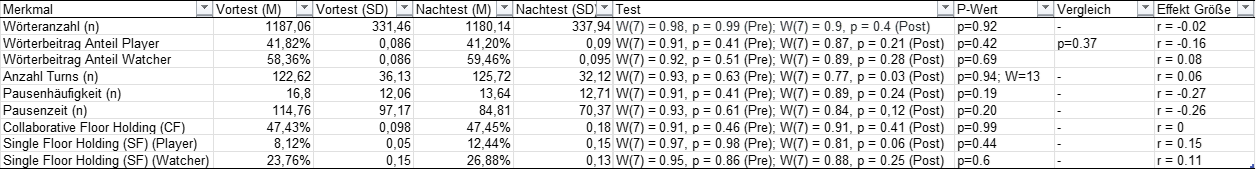
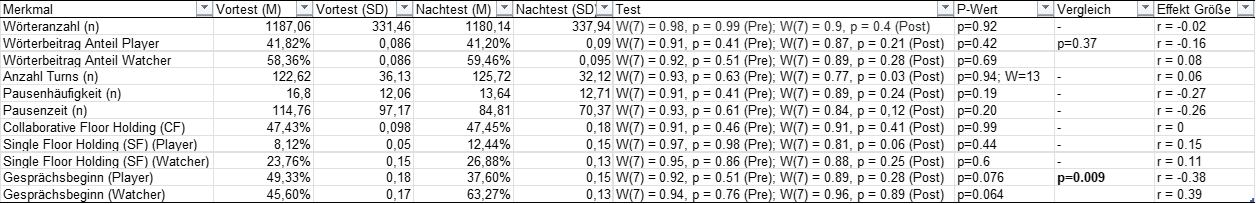
Updates from Overleaf

diff --git a/content/chapters/study.tex b/content/chapters/study.tex
@@ -36,7 +36,7 @@ Das Verhalten von Personen zueinander kann von vielen verschiedenen Faktoren abh
 Zusätzlich wurde ein eigenständiger Fragebogen erstellt, durch welchen die Meinung der Probanden zum Thema Spielen mit Fremden eingeholt werden soll. Dieser befindet sich in Anhang \ref{}. Für die Erfassung der demografischen Daten wurde ebenfalls ein speziell für das Thema dieser Arbeit entworfener Fragebogen erstellt und verwendet. Außerdem mussten sich die Probanden einem der vier Spielertypen von \cite{bartle_hearts_1996} zuordnen. Sie sind die Grundlage der vorgeführten Forschung der Spielertypen und decken die wichtigsten Aspekte des Spiels ab. Außerdem ist das Nutzen einer anderen Taxonomie in Bezug auf die genauerer Unterteilung der Spielerrollen nicht zielführend, da bei einer kleinen Probandenmenge die Anzahl der einzelnen Spielerrollen gering sein wird. Um aus den Spielerrollen Hinweise über den Forschungsschwerpunkt erzielen zu können, ist eine wiederholende Anzahl an Spielertypen hilfreich.
 
 % hier jetzt zur auiswertung der kommunikationsaufnahmen die ansätze aufschreiben wies geplant ist.
-Außerdem wurde die gesamte Versuchsdurchführung aufgenommen. Sie werden dazu genutzt um quantitative Ergebnisse in der Zusammenarbeit der Probanden zu erzeugen. Dies geschieht auf Basis der Arbeiten von \cite{baykal_collaboration_2023}, \cite{nasir_cooperative_2013} und \cite{nasir_effect_2015}. In \cite{baykal_collaboration_2023} werden die gesprochenen Dialoge anhand der in der Arbeit entworfenen Taxonomie aufbereitet, um daraus einen quantitativen Quotienten oder ähnliches zu generieren. \cite{nasir_cooperative_2013} und \cite{nasir_effect_2015} beschäftigten sich mit der Quantisierung der Kontrolle des Kommunikationsflusses.
+Außerdem wurde die gesamte Versuchsdurchführung aufgenommen. Sie werden dazu genutzt um quantitative Ergebnisse in der Zusammenarbeit der Probanden zu erzeugen. Dies geschieht auf Basis der Arbeiten von \cite{nasir_cooperative_2013} und \cite{nasir_effect_2015}. Die Arbeiten beschäftigten sich mit der Quantisierung der Kontrolle des Kommunikationsflusses. Dieses Vorgehen wurde für diese Nutzerstudie gewählt, da in der Kommunikation zwischen Individuen oft ein Ungleichgewicht im Beitrag besteht oder es zu unangenehmen Gesprächspausen kommt. Um auf diese Aspekte einzugehen wurde die Methodik von Nasir gewählt.
 
 Eine Mischung aus beiden Ansätzen könnte Aufschluss darüber geben, wie sehr die Kommunikation in der Quantität aber auch in der Qualität verbessert hat.
 
@@ -259,15 +259,71 @@ Des weiteren wurden die Gesprächsblöcke zeitlich erfasst, wann diese im aufgez
 
 Zum Schluss wurden noch die gesagten Wörter der einzelnen Teilnehmer im ganzen Test gezählt und diese in Relation zur Gesamtmenge der gesagten Wörter gesetzt um den Gesprächsanteil dieses Probanden im Test ermitteln zu können.
 
+Zusätzlich zu den Erhebungen von Nasir, wurde erfasst, welcher Teilnehmer wie oft die verschiedenen Gesprächsblöcke initiierte. Mit diesem Parameter soll die Entwicklung der Gesprächsinitiierung der Probanden bewertet werden.
+
+Die jeweiligen Stichproben wurden mithilfe des Shapiro-Wilk-Test auf Normalverteilung geprüft. Anschließend wurden Veränderungen zwischen Vor- und Nachtest bei normalverteilten Stichproben mittels t-Test für abhängige Stichproben auf Signifikanz untersucht. Für nicht normalverteilte Stichproben kam der Wilcoxon-Test zum Einsatz. Zum Vergleich zweier unabhängiger Merkmale wurde der Welch-Test verwendet.
+
 \begin{figure}[ht]
 \centering
 \includegraphics[width=1\linewidth]{content/pictures/quantitative_communication_results.png}
 \caption{Ergebnisse des quantitativen Kommunikationsverhaltens aller Gruppen im Vergleich Vortest/Nachtest}
+\caption*{\footnotesize Das Kürzel (n) bezeichnet normalisierte Werte auf 10 Minuten Gesprächsdauer.}
 \label{fig:communication-results}
 \end{figure}
 
 Abbildung \ref{fig:communication-results} zeigt die Ergebnisse der quantitativen Untersuchung der einzelnen Probandentests. Abweichend von Nasir, der eine testweise Auswertung vornimmt, wurde hier pro Merkmal der durchschnittliche Wert aus allen sieben Tests für den Vor- und Nachtest verwendet.
 
+Die einzelnen Gruppen erhielten für das kooperative Lösen der Labyrinth-Aufgabe 10 Minuten Zeit. Jedoch waren einige Gruppen früher fertig, manche wiederum wurden gar nicht fertig (M = 08:05 Minuten; SD = 02:27 Minuten Bearbeitungszeit im Vortest (M = 06:56 Minuten; SD = 03:15 Minuten Bearbeitungszeit im Nachtest). Aus diesem Grund wurden die in Abbildung \ref{fig:communication-results} betreffenden Merkmale normalisiert.
+
+Die durchschnittlich gesprochene Wörteranzahl sinkt in der Entwicklung vom Vor- zum Nachtest leicht. Dieses negative Veränderung ist jedoch nicht signifikant und besitzt auch nur eine sehr kleine negative Korrelation. Außerdem stieg die bereits im Vortest hohe Standardabweichung ein Stück weiter an, wodurch eine größere Streuung der der Daten aus den Einzelgruppen sichtbar wird. 
+
+Die Wörterbeiträge der Probanden aus den jeweiligen Gruppen des Players und Watchers wurden jeweils in ihren Tests im Verhältnis zu den gesamt gesprochenen Wörtern betrachtet. Der Mittelwert der Wortbeteiligungen der Player sank im Nachtest leicht, wohingegen die Wortbeteiligungen der Watcher leicht anstiegen. Beide Änderungen sind nicht Signifikant und besitzen auch nur eine geringe Korrelation. Die Anzahl der gemessenen \say{Turns} steigt jedoch leicht um ein nicht signifikantes Maß an.
+
+Die Anzahl und die Länge der Pausen innerhalb des Gesprächsprotokolls reduzierten sich im Nachtest. In diesem Testszenario ist diese Veränderung zwar nicht signifikant, allerdings kann die mittlere negative Korrelation darauf hinweisen, dass in einem längeren Szenario Pausenzeiten signifikant reduziert werden könnten. Eine Reduktion der Anzahl und der Länge der Pausen kann zu einem positiven Kommunikationsverhalten führen.
+
+Eine Analyse des Floor Holding Verhaltens der jeweiligen Probanden-Paare zeigt, dass das Kollaborative Verhalten im Mittelwert minimal ansteigt, jedoch in den \ac{SF}s der jeweiligen Teilnehmer im Vergleich stärker ansteigt. Alle drei Änderungen haben keine signifikante Verbesserung, auch eine niedrige Korrelation weißt nicht darauf hin, dass mit einem längeren Szenario und einer größeren Stichprobe am Wachstum eine Verbesserung messbar ist. 
+
+Die Auswertung der Gesprächsstarts zeigte, dass die Probanden, die die Player Anwendung gespielt haben, im Nachtest seltener die Initiative ergriffen als noch im Vortest. Bei den Probanden der Watcher Anwendung ist es umgekehrt. Sie zeigten im Nachtest eine höhere Initiative und begannen öfters mit den Gesprächssequenzen. Beide Änderungen sind zwar nicht signifikant, besitzen aber beide eine mittlere Korrelation. Beim Vergleich der beiden Untergruppen konnte ein signifikanter Unterschied festgestellt werden. Bei einer größeren Stichprobe könnten die Entwicklungen der Initiativen signifikant werden.
+
+In der gemeinsamen Gesprächsführung konnten sich die Probanden nicht verbessern, allerdings konnten sie häufiger von sich aus den Gesprächsfluss dominieren, wodurch ihr Selbstbewusstsein etwas zu sagen gestärkt werden konnte. Allerdings konnten in dieser Bewertungsform keine signifikanten Unterschiede festgestellt werden.
+
+
+\subsection{Vorstellung der Ergebnisse zum Thema Leadership}
+In diesem Abschnitt werden die Ergebnisse des Leadership-Fragebogens von \cite{emmerich_game_2016} in Bezug auf die Ergebnisse der quantitativen Auswertung der Vor- und Nachtests vorgestellt.
+
+Zunächst wurden für jeden Probanden der Mittelwert der gewählten Werte berechnet (Wertung von 1 = trifft nicht zu; bis 5 = trifft vollkommen zu). Anschließend erfolgt die Gesamt-Durchschnittsberechnung. Die teilgenommenen Probanden zeigten insgesamt ein mittleres Maß an Führung (M = 3.92; SD = 1.18). 
+
+Um die Mittelwerte der Player und Watcher Untergruppen miteinander vergleichen zu können, wurde zunächst durch den Shapiro-Wilk-Test auf Normalverteilung überprüft. Der Vergleich der Mittelwerte erfolgt über den ungepaarten t-Test.
+
+Zwischen den Probanden der Watcher-Gruppe (M = 3.06; SD = 1.24) und der Player-Gruppe (M = 2.99; SD = 1.14) konnte kein signifikanter Unterschied festgestellt werden (p = 0.71; t = 2.18). 
+
+Im Anschluss wurde untersucht, ob das Leadership Verhalten der einzelnen Probanden eine mögliche Korrelation mit ihren gesprochenen Worten im Nachtest besteht. 
+
+\begin{figure}[ht]
+\centering
+\includegraphics[width=1\linewidth]{content/pictures/Korrelation_Leadership_Wordcount_full.png}
+\caption{Korrelation des Leaderships mit den gesprochenen Worten aus der quantitativen Gesprächsauswertung}
+\label{fig:correlation_leadership_wordcount}
+\end{figure}
+
+In Betrachtung aller Probanden mit ihrem durchschnittlichen Leadership-Wert konnte nur eine sehr schwache Korrelation und keine Signifikanz festgestellt werden (rs(14) = 0.13; p = 0.66) (vgl. Abbildung \ref{fig:correlation_leadership_wordcount}, linkes Schaubild). In der Untergruppe der Watcher (vgl. Abbildung \ref{fig:correlation_leadership_wordcount}, rechtes Schaubild) konnte eine mittlere Korrelation festgestellt, welche ebenfalls nicht signifikant ist (rs(7) = 0.46; p = 0.29). In der Untergruppe der Player konnte keine Korrelation festgestellt werden (vgl. Abbildung \ref{fig:correlation_leadership_wordcount}, mittleres Schaubild). Diese ist ebenfalls nicht signifikant (rs(7) = 0; p = 1)
+
+Da in dieser Arbeit eine verbesserte Kommunikation zwischen den Probanden angestrebt wird, steht insbesondere die Förderung kollaborativer Kommunikationsanteile im Fokus. Wie in der quantitativen Auswertung bereits festgestellt werden konnte, gab es keine signifikante Änderung in den Anteilen des \ac{CF}s. Da die Mittelwerte der Leadership-Selbsteinschätzung im mittleren Bereich liegen, lässt sich vermuten, dass keiner der teilnehmenden Personen eine dominante Führungsrolle einnimmt. Stattdessen könnte dies auf ein grundsätzlich kooperatives Miteinander hinweisen, in dem Führungsaspekte gleichmäßig verteilt und kollaborative Kommunikationsformen bevorzugt werden.
+
+Dafür wurden nun Durchschnitte der Leadership-Werte der Probanden genommen, die an den Tests gemeinsam teilgenommen haben, und diese werden nun mit den Einzelwerten der \ac{CF}s der eigenen Tests verglichen.
+
+\begin{figure}[ht]
+\centering
+\includegraphics[width=1\linewidth]{content/pictures/korrelation_leadership_cfh.png}
+\caption{Korrelation des Leaderships pro Probanden-Paar mit dem \ac{CF}-Anteil ihres Nachtests}
+\label{fig:correlation_leadership_cfh}
+\end{figure}
+
+Es konnte keine Korrelation (vgl. Abbildung \ref{fig:correlation_leadership_cfh}) zwischen dem durchschnittlichen subjektiven Leadership Empfinden der Probanden-Paare mit ihrem \ac{CF}-Anteil in ihren jeweiligen Nachtests festgestellt werden. Diese hat außerdem keine Signifikanz (rs(7) = -0.08; p = 0.86).
+
+Zuletzt wurde noch das subjektive Empfinden des Leaderships mit den gemessenen Anteilen der Gesprächsstarts untersucht. Auch hier zeigten sich weder in der Gruppe der Player (rs(7) = -0.07; p = 0.88), noch in der Gruppe der Watcher (rs(7) = -0.03; p = 0.94) Korrelationen, die ebenfalls nicht signifikant sind. 
+
+Insgesamt zeigt sich, dass das mittlere empfundene Leadership keine Auswirkung auf die Entwicklungen innerhalb der quantitativen Untersuchung hat.
 
 % \begin{tabular}{|p{2.5cm}||p{2cm}|p{2cm}|p{2cm}|p{2cm}||p{2cm}||p{2cm}||p{2cm}|}
 %  \hline
